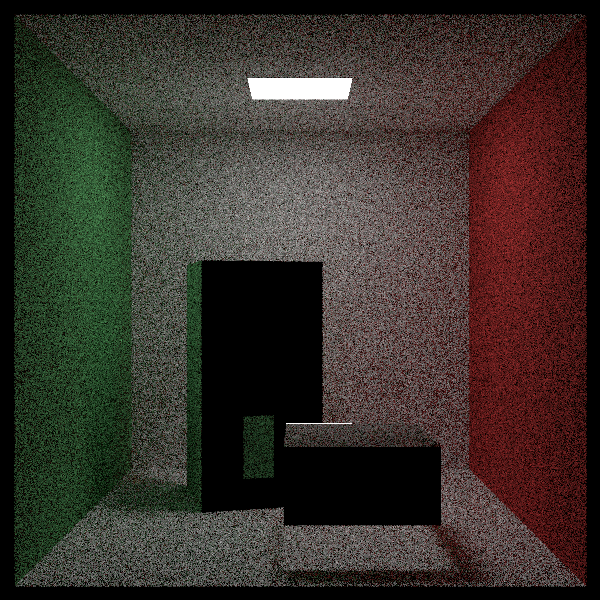
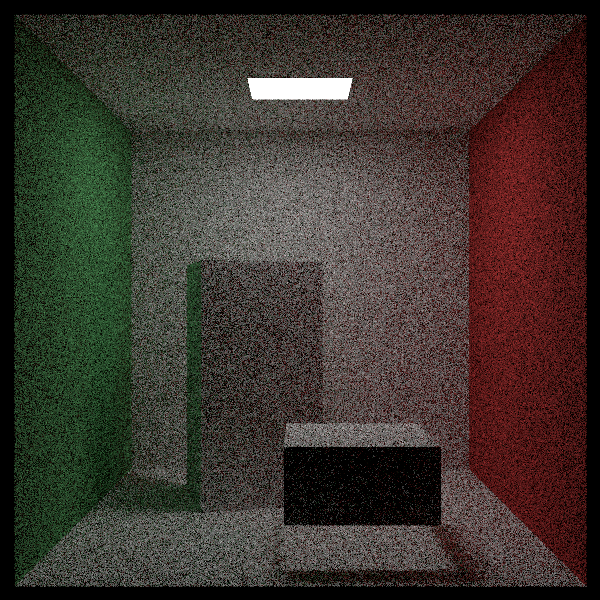
fixed bug in lambertian

diff --git a/src/elements.rs b/src/elements.rs
@@ -95,6 +95,9 @@ pub struct Triangle {
     pub v0: Vec3,
     pub v1: Vec3,
     pub v2: Vec3,
+    pub v0v1: Vec3,
+    pub v0v2: Vec3,
+    pub normal: Vec3,
     pub material: Material,
     pub bbox: Aabb,
 }
@@ -109,6 +112,8 @@ impl JSONTriangle {
 
 impl Triangle {
     pub fn new_from_json_object(json_triangle: JSONTriangle) -> Self {
+
+        
         Triangle::new(
             json_triangle.v0,
             json_triangle.v1,
@@ -120,10 +125,17 @@ impl Triangle {
     // find the minimum xyz and max xyz coordinates and use for bounding box. add some padding as triangles are usually flat..
     // https://stackoverflow.com/questions/39974191/triangle-bounding-box
     pub fn new(v0: Vec3, v1: Vec3, v2: Vec3, material: Material) -> Self {
+        let v0v1: Vec3 = v1 - v0;
+        let v0v2: Vec3 = v2 - v0;
+        let normal = v0v1.cross(&v0v2).normalized();
+        
         Triangle {
             v0,
             v1,
             v2,
+            v0v1,
+            v0v2,
+            normal,
             material,
             bbox: Aabb::new_from_points(v0.min(v1.min(v2)), v0.max(v1.max(v2))).pad(),
         }
@@ -134,13 +146,11 @@ impl Triangle {
 impl Hittable for Triangle {
     fn hit(&self, ray: &Ray, ray_t: &mut Interval) -> Option<HitRecord> {
         //compute the plane's normal
-        let v0v1: Vec3 = self.v1 - self.v0;
-        let v0v2: Vec3 = self.v2 - self.v0;
-        let normal = v0v1.cross(&v0v2);
+
         // let area: f64 = normal.length();
 
         //step 1 - finding P
-        let ndot_ray_direction = normal.dot(&ray.direction);
+        let ndot_ray_direction = self.normal.dot(&ray.direction);
 
         // check if the ray and the plane are parallel. if they are, no hit
         if ndot_ray_direction < 0.000001 {
@@ -148,10 +158,10 @@ impl Hittable for Triangle {
         }
 
         // compute d parameter
-        let d: f64 = (normal * -1.0).dot(&self.v0);
+        let d: f64 = (self.normal * -1.0).dot(&self.v0);
 
         // compute t
-        let t = -(normal.dot(&ray.origin) + d) / ndot_ray_direction;
+        let t = -(self.normal.dot(&ray.origin) + d) / ndot_ray_direction;
 
         // check if t is inside the interval (before the camera, and closer than an earlier hit)
         if !ray_t.contains(t) {
@@ -167,7 +177,7 @@ impl Hittable for Triangle {
         let edge0: Vec3 = self.v1 - self.v0;
         let vp0: Vec3 = point - self.v0;
         let c: Vec3 = edge0.cross(&vp0);
-        if normal.dot(&c) < 0.0 {
+        if self.normal.dot(&c) < 0.0 {
             return None; // point is on the right side
         }
 
@@ -175,7 +185,7 @@ impl Hittable for Triangle {
         let edge1: Vec3 = self.v2 - self.v1;
         let vp1: Vec3 = point - self.v1;
         let c: Vec3 = edge1.cross(&vp1);
-        if normal.dot(&c) < 0.0 {
+        if self.normal.dot(&c) < 0.0 {
             return None; // point is on the right side
         }
 
@@ -183,16 +193,16 @@ impl Hittable for Triangle {
         let edge2: Vec3 = self.v0 - self.v2;
         let vp2: Vec3 = point - self.v2;
         let c: Vec3 = edge2.cross(&vp2);
-        if normal.dot(&c) < 0.0 {
+        if self.normal.dot(&c) < 0.0 {
             return None; // point is on the right side
         }
 
         // we have a hit, so we return a hit record
         return Some(HitRecord {
             t,
-            normal: normal, //TODO check normal (should be outward normal)
+            normal: self.normal,
             point,
-            front_face: ray.direction.dot(&normal) < 0.0,
+            front_face: ray.direction.dot(&self.normal) < 0.0,
             material: self.material,
         });
     }

diff --git a/src/materials.rs b/src/materials.rs
@@ -97,11 +97,13 @@ impl Lambertian {
 impl Scatterable for Lambertian {
     // create a scattered ray, randomized but with a lambartian distribution around the normal
     fn scatter(&self, _ray: &Ray, hit_record: &HitRecord, rng: &mut impl Rng) -> Option<(Option<Ray>, Color)> {
+        //lambertian distribution, assume the normal is normalized
+        // reflect from both sides
         let mut new_direction: Vec3 = if hit_record.front_face {
-            hit_record.normal + Vec3::new_random_unit_vector(rng) //lambertian distribution
+            hit_record.normal 
         } else {
-            -hit_record.normal + Vec3::new_random_unit_vector(rng) //lambertian distribution 
-        };
+            -hit_record.normal  
+        } + Vec3::new_random_unit_vector(rng);
 
         // if the direction is almost zero, scatter to the normal
         if new_direction.near_zero() {
